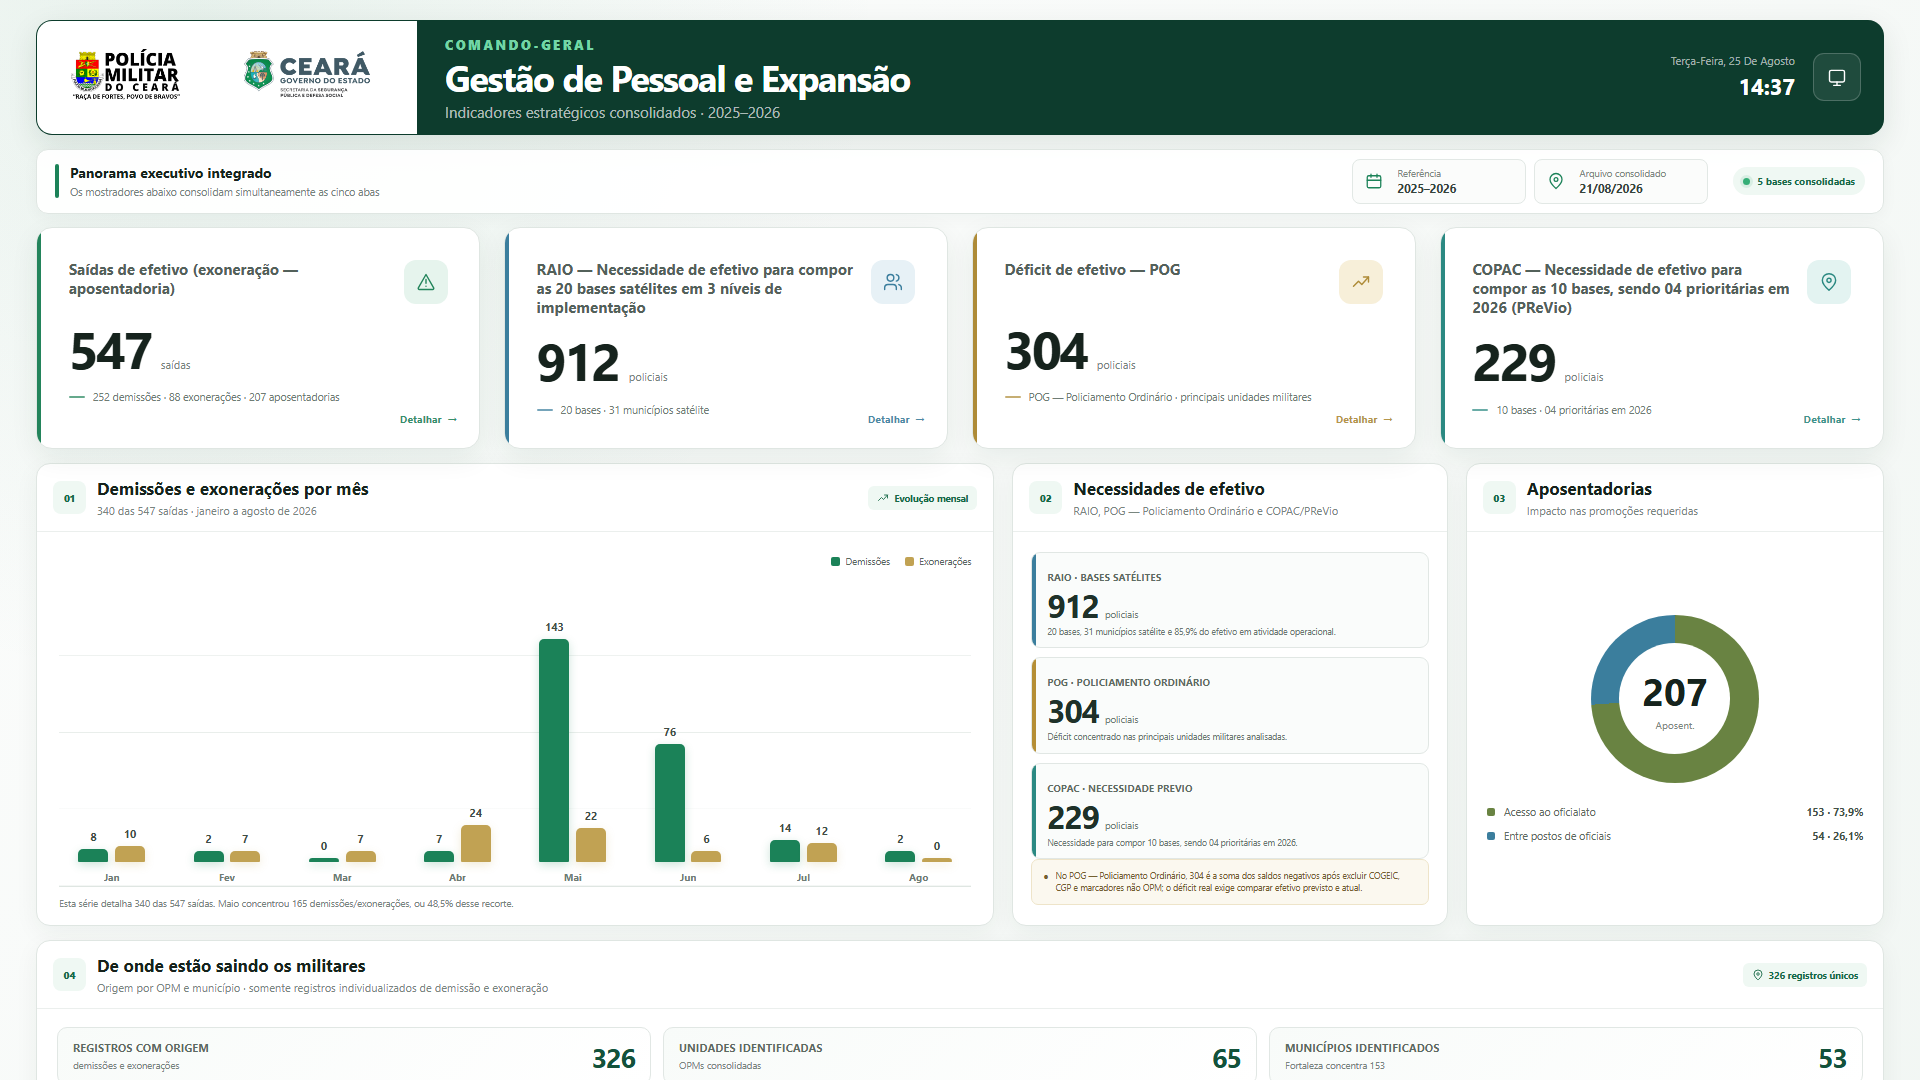
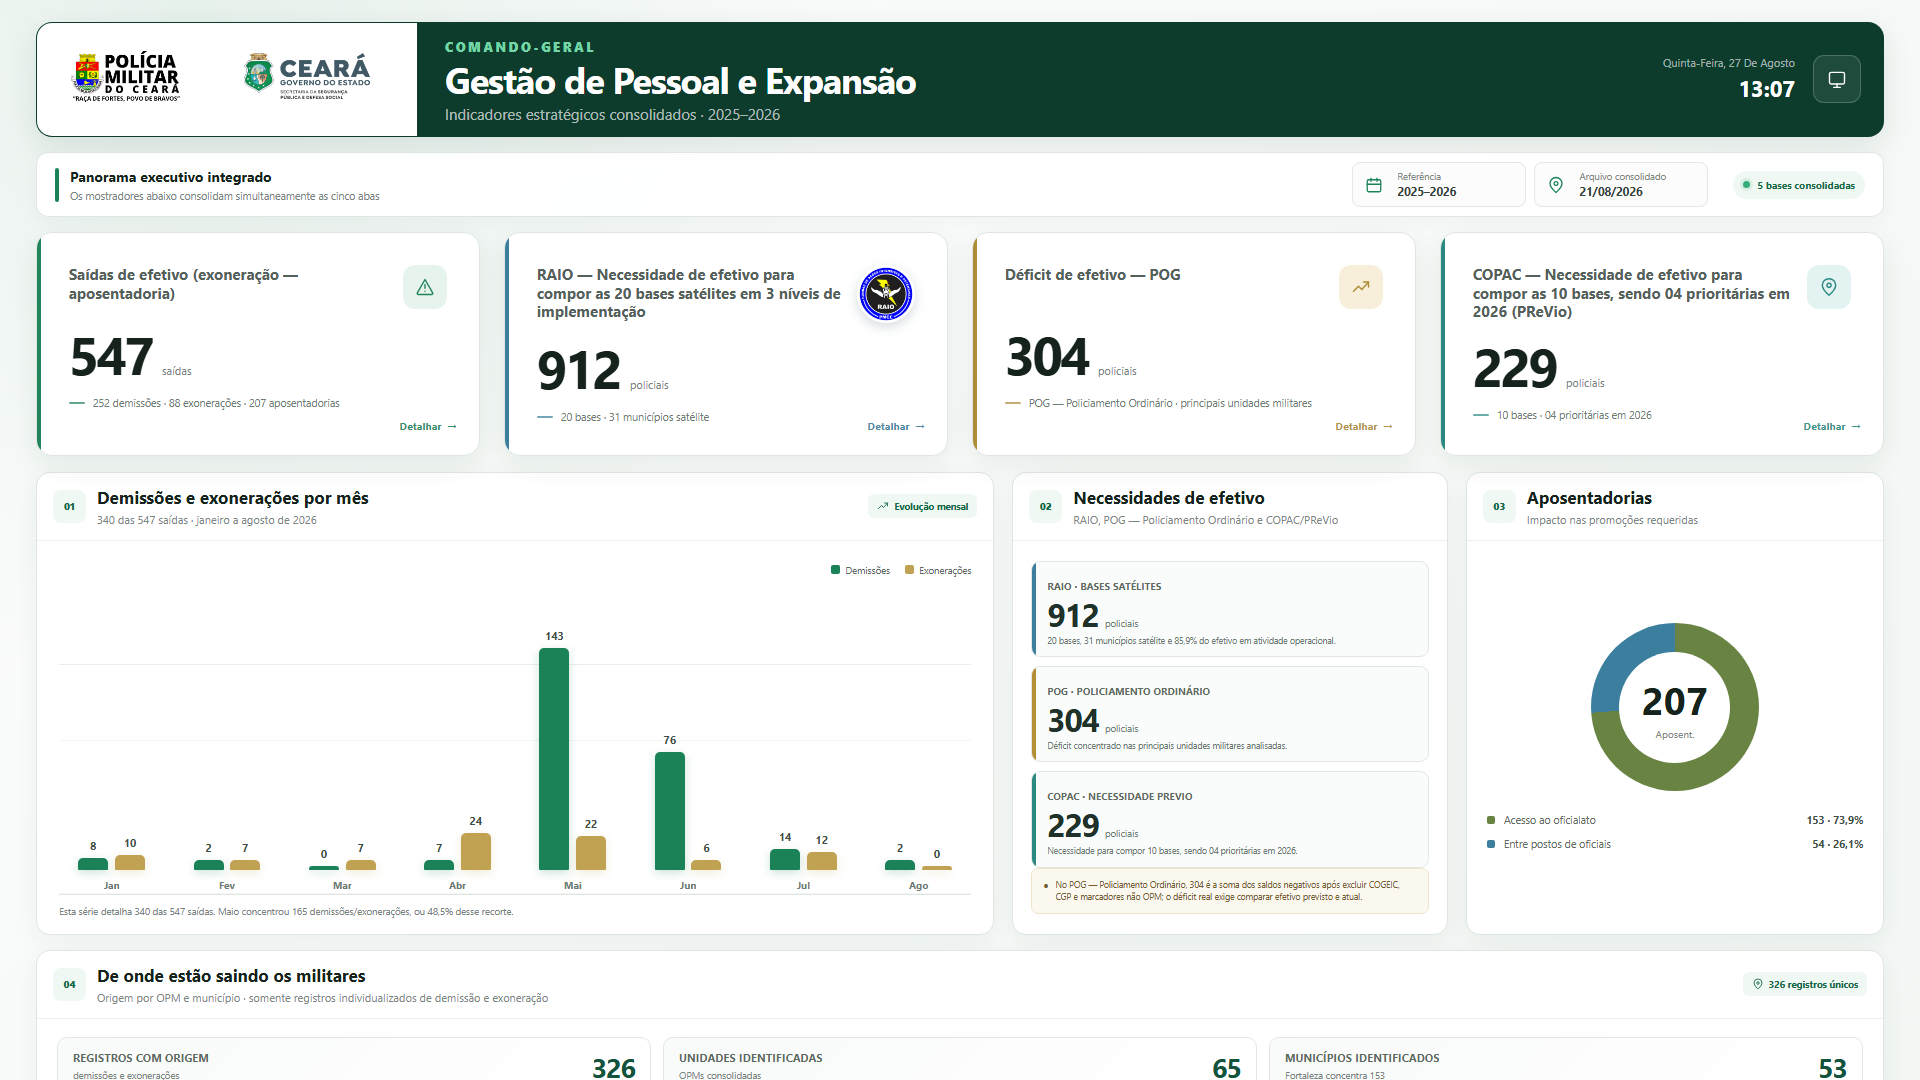
Substitui o ícone do RAIO pelo emblema oficial

diff --git a/index.html b/index.html
@@ -56,7 +56,7 @@
           <span class="metric-detail-hint">Detalhar <b>→</b></span>
         </article>
         <article class="metric-card metric-card--blue metric-card--interactive" data-detail="raio" tabindex="0" role="button" aria-haspopup="dialog" aria-controls="metricDetailModal" aria-label="Detalhar a necessidade de 912 policiais para as bases satélites do RAIO">
-          <div class="metric-top"><span>RAIO — Necessidade de efetivo para compor as 20 bases satélites em 3 níveis de implementação</span><div class="metric-icon"><svg><use href="#icon-users"></use></svg></div></div>
+          <div class="metric-top"><span>RAIO — Necessidade de efetivo para compor as 20 bases satélites em 3 níveis de implementação</span><div class="metric-icon metric-icon--emblem"><img src="assets/emblema-raio.jpeg" alt="Emblema do RAIO PMCE"></div></div>
           <div class="metric-main"><strong>912</strong><small>policiais</small></div>
           <div class="metric-foot"><i></i><span>20 bases · 31 municípios satélite</span></div>
           <span class="metric-detail-hint">Detalhar <b>→</b></span>

diff --git a/presentation.css b/presentation.css
@@ -113,6 +113,8 @@ svg { display: block; }
 .metric-top > span { line-height: 1.25; }
 .metric-icon { display: grid; width: 44px; height: 44px; flex: 0 0 auto; place-items: center; border-radius: 12px; color: var(--accent); background: var(--soft); }
 .metric-icon svg { width: 20px; height: 20px; fill: none; stroke: currentColor; stroke-linecap: round; stroke-linejoin: round; stroke-width: 1.7; }
+.metric-icon--emblem { width: 58px; height: 58px; overflow: hidden; border: 2px solid #fff; border-radius: 50%; background: #fff; box-shadow: 0 4px 12px rgba(17, 61, 83, .18); }
+.metric-icon--emblem img { display: block; width: 100%; height: 100%; object-fit: cover; }
 .metric-main { display: flex; align-items: baseline; gap: 10px; margin-top: 18px; }
 .metric-main strong { font-size: clamp(38px, 2.75vw, 54px); letter-spacing: -.05em; line-height: 1; }
 .metric-main small { color: #76837c; font-size: 11px; }
